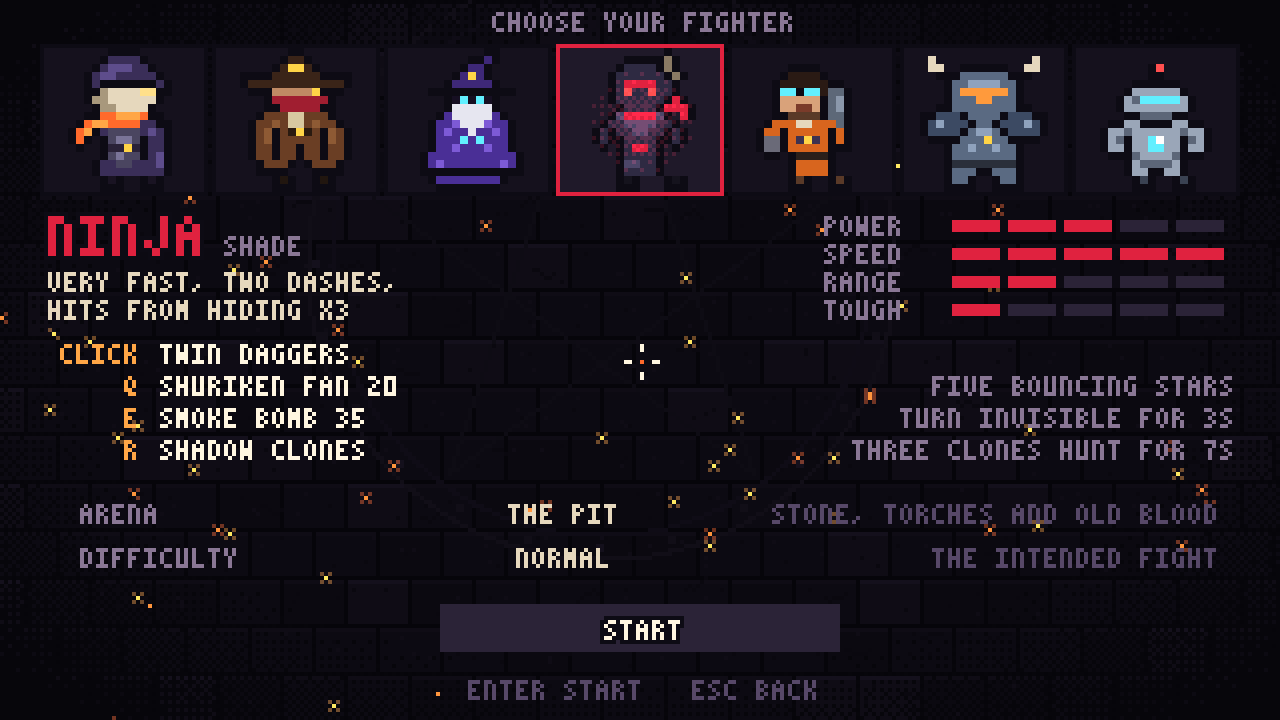
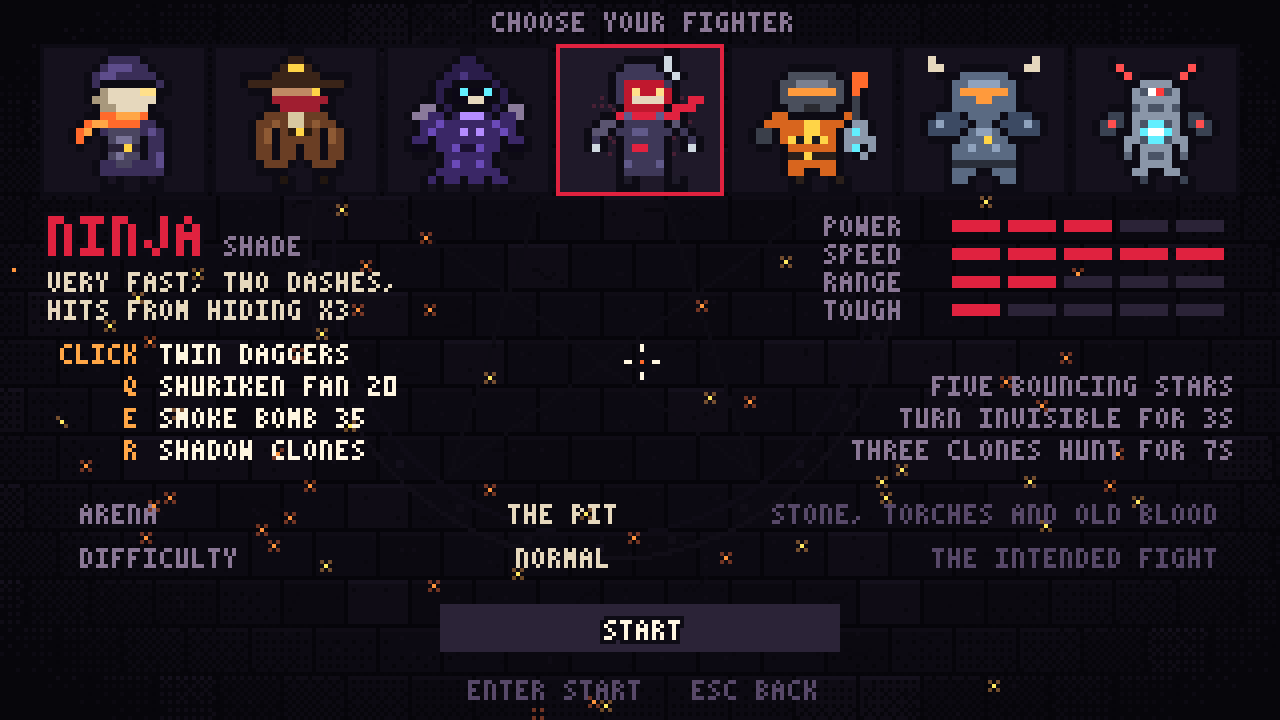
add vibration menu

diff --git a/src/sprites.js b/src/sprites.js
@@ -31,27 +31,27 @@ const BODIES = {
     map: () => ({ H: '#3a2418', h: P.gold, f: '#c08a64', e: P.gold, r: '#a01e30', D: '#6a3e24', d: '#8e5a34', w: '#d8c8a0', k: '#2a1a10', K: P.gold, b: '#21160f' }),
   },
   WIZARD: {
-    eye: [6, 6],
-    rows: ['.........oo...', '.......ooHo...', '......oHHo....', '.....oHsHo....', '....oHHHHHo...', '..ooooooooooo.',
-      '....oKeKeKo...', '....obbbbbo...', '...oRbbbbbRo..', '..oRRrbbbrRRo.', '..oRrRRbRRrRo.', '..oRRRgRgRRRo.',
-      '..oRRrRRRrRRo.', '.oRRRRRRRRRRRo', '.oRrRRRRRRRrRo', '.ooooooooooooo'],
-    map: () => ({ H: '#3e2878', s: '#ffd447', K: '#160f22', e: '#62efff', b: '#e6e6f0', R: '#4a2f96', r: '#7d5ad6', g: '#62efff' }),
+    eye: [7, 5], wide: true,
+    rows: ['.......oo.......', '......oHHo......', '.....oHHHHo.....', '....oHHhHHHo....', '...oHHoooooHo...', '...oHoKeKKeoHo..',
+      '..ooHoKKmmKoHoo.', '.oSSoHoooooHoSSo', 'oSSRRoHgggHoRRSo', '.oRRrRRRRRRrRRo.', '.oRrRRRgRgRRrRo.', 'oRRoRRRRRRRRoRRo',
+      'oKKoRRrkkrRRoKKo', '.oo.oRRRRRRo.oo.', '....oRrRRrRo....', '...oRRRRRRRRo...'],
+    map: () => ({ H: '#2a1d4a', h: '#4a3580', K: '#0c0816', e: '#62efff', m: '#e6d8bd', S: '#8a7a9a', R: '#3a2766', r: '#6a4ab8', g: '#b48cff', k: '#1a1030' }),
     legs: 'robe',
   },
   NINJA: {
-    eye: [8, 5],
-    rows: ['..........o...', '.....oooooKo..', '....oNNNNoKo..', '...oNNNNNNoKo.', '...oNrrrrNNo..', '...oNeNNeNNo..',
-      '...oNNNNNNoro.', '....oNNNNorrro', '...onrrrrno.ro', '..oNNnnnnNNo..', '.oNoNNnnNNoNo.', '.oNooNNNNooNo.',
-      '..o.oNrrNo.o..', '....oNNNNo....', '....onnNNo....', '....oNNNNo....'],
-    alt: { 7: '....oNNNNorr.o', 8: '...onrrrrnorr.' },
-    map: () => ({ N: '#3e3858', n: '#615a8a', r: '#e0223f', e: '#ff5050', K: '#8a7a64', b: '#1d1a28' }),
+    eye: [7, 5], wide: true,
+    rows: ['...........oo...', '......oooooKo...', '.....oNNNNoKo...', '....oNNNNNNoKo..', '....oNMMMMMNo...', '....oNMeMMeMo...',
+      '....oNMwwwwMo.rr', '.....oMMMMMorrr.', '...oornrrrnrro..', '..oPPoNNNNNoPo..', '.oPPoNNnnNNNoNo.', '.oNo.oNNNNNo.oNo',
+      '.oKo.oNrrNNo.oKo', '.....oNNNNNo....', '.....onNNNno....', '.....oNNNNNo....'],
+    alt: { 6: '....oNMwwwwMo..r', 7: '.....oMMMMMorr.r', 8: '...oornrrrnrrro.' },
+    map: () => ({ N: '#3e3858', n: '#615a8a', M: '#c0182e', e: '#ffe08a', w: '#e6d8bd', r: '#e0223f', P: '#5a5470', K: '#cfd8e0', b: '#1d1a28' }),
   },
   MECHANIC: {
-    eye: [4, 3],
-    rows: ['....oooo......', '...oKKKKo.....', '..oKKKKKKoo...', '..oGGoGGKPPo..', '..offfffoPpo..', '..offmmfoPpo..',
-      '..oobbbboPPo..', '.oOOOwwOOOPo..', 'oOOoOOOOOoOo..', 'oggoOtTtOoOo..', 'oggoOOOOOooo..', '.oo.okkkko....',
-      '....oOOOOo....', '....oOOOOo....'],
-    map: () => ({ K: '#2a1a14', G: '#62efff', P: '#5d6878', p: '#8b98ab', f: '#d9a27a', m: '#7a3b2a', b: '#5a3a28', O: '#d8651e', w: '#e6d8bd', g: '#6a6a78', t: '#3d3250', T: '#ffd447', k: '#2a1f1a' }),
+    eye: [6, 3], wide: true,
+    rows: ['.....oooooo.....', '....oWWWWWWo.xx.', '...oWWwwwwWWoxx.', '...oWGGGGGGWoxo.', '...oWWWWWWWWoPo.', '...ooWWddWWooPo.',
+      '..oOOoooooooOPo.', '.oOOOOOhhOOOoCCo', 'oggoOOOhhOOoCcCo', 'oggoOyKyKyOoCCCC', '.oo.oOOOOOOoCcoC', '....okkTkkko.oCo',
+      '....oOOOOOOo....', '....oOOooOOo....'],
+    map: () => ({ W: '#4a4f5c', w: '#7a8090', G: '#ff9a3c', x: '#ff6a2b', P: '#3a3f4a', d: '#2a2a30', O: '#d8651e', h: '#ffd447', g: '#3a3f4a', y: '#ffd447', K: '#1a1a20', C: '#8b98ab', c: '#62efff', k: '#2a1f1a', T: '#ffd447', b: '#2a1f1a' }),
   },
   TANK: {
     eye: [8, 4],
@@ -62,14 +62,15 @@ const BODIES = {
     legs: 'heavy',
   },
   ROBOT: {
-    eye: [7, 4],
-    rows: ['......oA......', '......oo......', '....oooooo....', '...oMMMMMMo...', '..oMmVVVVVMo..', '..oMMMMMMMMo..',
-      '...oommmmoo...', '.ooMMooooMMoo.', 'oMMmMMMMMMmMMo', 'oMmoMMcCMMomMo', 'oMMoMMccMMoMMo', '.ooomMMMMmooo.',
-      '...oMmmmmMo...', '...oMMooMMo...'],
-    map: () => ({ M: '#9aa6b8', m: '#5c6678', V: '#62efff', c: '#62efff', C: '#ffffff', A: '#ff4f4f', b: '#3a4252' }),
+    eye: [7, 4], wide: true,
+    rows: ['..o..........o..', '..oA........Ao..', '...oA.oooo.Ao...', '....ooMMMMoo....', '....oMmERmMo....', '....oMMMMMMo....',
+      '..ooomMmmMmooo..', '.oCCoMMMMMMoCCo.', 'oCcCoMmVVmMoCcCo', 'oCCooMVWWVMooCCo', '.oooMMmVVmMMooo.', '...oMoMMMMoMo...',
+      '...oFoMmmMoFo...', '....ooMMMMoo....', '....oMMooMMo....'],
+    map: () => ({ M: '#8a96a8', m: '#4a5466', A: '#ff4f4f', E: '#ffffff', R: '#ff3b3b', C: '#3a4252', c: '#ff4f4f', V: '#62efff', W: '#ffffff', F: '#5c6678', b: '#3a4252' }),
   },
 };
-const ROBE_LEGS = ['..oRRRRRRRRo..', '...oooooooo...'];
+const ROBE_LEGS = ['..oRoRRoRRoRRo..', '..o.o..o..o.o...'];
+const ROBE_LEGS_ALT = ['..oRRoRRoRRoRo..', '...o.o..o..o.o..'];
 const HEAVY = {
   idle: ['...oSSo..oSSo...', '...oooo..oooo...'], r0: ['..oSSo....oSSo..', '..oooo....oooo..'], r1: ['....oSSooSSo....', '....oooooooo....'],
   r2: ['...oSSo...oSSo..', '...oooo...oooo..'], r3: ['....oSSooSSo....', '.....oooooo.....'],
@@ -79,7 +80,8 @@ function buildChar(id) {
   const d = BODIES[id];
   const map = { o: P.ink0, ...d.map() };
   const body = (alt) => d.rows.map((r, i) => (alt && d.alt && d.alt[i]) || r);
-  const legs = (k) => (d.legs === 'robe' ? ROBE_LEGS : d.legs === 'heavy' ? HEAVY[k] : LEGS[k]);
+  const pad = (rows) => (d.wide ? rows.map((r) => '.' + r + '.') : rows);
+  const legs = (k) => (d.legs === 'robe' ? (k === 'r1' || k === 'r3' ? ROBE_LEGS_ALT : ROBE_LEGS) : d.legs === 'heavy' ? HEAVY[k] : pad(LEGS[k]));
   const sp = (alt, k) => makeSprite([...body(alt), ...legs(k)], map);
   const set = { idle: sp(false, 'idle'), run: [sp(false, 'r0'), sp(true, 'r1'), sp(false, 'r2'), sp(true, 'r3')] };
   set.eye = d.eye;

diff --git a/src/world.js b/src/world.js
@@ -47,11 +47,26 @@ export const DIFF = {
   NIGHTMARE: { hp: 1.7, spd: 1.22, count: 1.4, dmg: 1, php: -2, score: 2.2 },
 };
 
+// ---------- vibration (phones that support it; iPhone browsers don't) ----------
+const VIBE = { OFF: 0, LIGHT: 0.5, MEDIUM: 1, STRONG: 1.8 };
+// even entries buzz (scaled by the setting), odd entries are pauses
+const BUZZ = { tap: [12], hit: [16], kill: [26], heavy: [40], hurt: [90], parry: [18, 40, 28], boom: [60], ult: [40, 50, 140], boss: [140, 70, 260] };
+export const canVibrate = typeof navigator !== 'undefined' && typeof navigator.vibrate === 'function';
+let lastBuzz = 0;
+export function buzz(kind) {
+  const k = VIBE[settings.vibe];
+  if (!k || !canVibrate) return;
+  const now = performance.now();
+  if (kind !== 'hurt' && kind !== 'boss' && now - lastBuzz < 70) return;
+  lastBuzz = now;
+  try { navigator.vibrate(BUZZ[kind].map((v, i) => (i % 2 ? v : Math.max(5, Math.round(v * k))))); } catch { /* blocked */ }
+}
+
 // ---------- feel ----------
 export const fx = { trauma: 0, shakeT: 0, freeze: 0, slowT: 0, slowF: 1, flashT: 0, flashMax: 1, flashC: '#fff', flashStrong: false, flashLog: [], cam: { x: 0, y: 0 }, ox: 0, oy: 0, hurtVig: 0 };
 export function hitstop(d) { fx.freeze = Math.max(fx.freeze, d); }
 export function slowmo(d, f) { if (fx.slowT <= 0 || f < fx.slowF) fx.slowF = f; fx.slowT = Math.max(fx.slowT, d); }
-export function shake(a) { fx.trauma = Math.min(1, fx.trauma + a); }
+export function shake(a) { fx.trauma = Math.min(1, fx.trauma + a); if (a >= 0.6) buzz('boom'); }
 export function flash(c, d, strong) {
   if (strong) {
     const now = performance.now();
@@ -302,7 +317,7 @@ export function kill(e, o) {
   if (o.ug && G.p.ultLock <= 0 && !G.cine) G.p.ult = Math.min(100, G.p.ult + 3 * G.up.focus * G.kit.ultRate);
   hitstop(o.src === 'primary' ? 0.06 : 0.03);
   shake(e.type === 'brute' ? 0.55 : 0.3);
-  A.kill();
+  A.kill(); buzz('kill');
   if (e.type === 'tick') G.booms.push({ x: e.x, y: e.y, t: 0.09, friendly: true });
   if (e.frozen > 0 && G.up.frost) shatter(e);
   if (G.up.debt && ++G.debtKills >= 20) { G.debtKills = 0; healPlayer(1); }
@@ -359,7 +374,7 @@ export function tryHurt(dmg, sx, sy) {
   p.vx = Math.cos(a) * 220; p.vy = Math.sin(a) * 220;
   if (p.state === 'attack' || p.state === 'recover') p.state = 'move';
   hitstop(0.12); shake(0.65); flash(P.blood, 0.22, false); A.hurt();
-  if (input.touch) try { navigator.vibrate?.(70); } catch { /* not supported */ }
+  buzz('hurt');
   fx.hurtVig = 1;
   bleed(p.x, p.y, a, 14, P.blood, P.bloodD, 1);
   if (G.combo >= 5) addText(p.x, p.y - 24, 'COMBO LOST', P.dust);
@@ -377,7 +392,7 @@ function perfectDodge() {
   p.inv = Math.max(p.inv, 0.45);
   addText(p.x, p.y - 24, 'PERFECT', P.volt, 1);
   addRing(p.x, p.y - 6, P.volt, 220, 0.35, 2);
-  A.perfect();
+  A.perfect(); buzz('parry');
   addCombo(1);
 }
 
@@ -538,7 +553,7 @@ function updatePlayer(dt) {
     const canAct = free || (p.state === 'attack' && p.atkT >= p.cancelAt);
     const canDash = p.state !== 'dash' && p.state !== 'skill';
     if (p.bufDash > 0 && p.charges > 0 && canDash) startDash(mx, my, ml);
-    else if (p.bufR > 0 && canAct && p.ult >= 100) { p.bufR = 0; p.ult = 0; p.ultLock = 2.5; kit.r.use(p); }
+    else if (p.bufR > 0 && canAct && p.ult >= 100) { p.bufR = 0; p.ult = 0; p.ultLock = 2.5; kit.r.use(p); buzz('ult'); }
     else if (p.bufQ > 0 && canAct && p.energy >= kit.q.cost && p.cdQ <= 0) { p.bufQ = 0; if (kit.q.use(p) !== false) { p.energy -= kit.q.cost; p.cdQ = kit.q.cd; } }
     else if (p.bufE > 0 && canAct && p.energy >= kit.e.cost && p.cdE <= 0) { p.bufE = 0; if (kit.e.use(p) !== false) { p.energy -= kit.e.cost; p.cdE = kit.e.cd; } }
     else if (kit.melee) { if (p.bufAtk > 0 && canAct) startAttack(); }
@@ -621,6 +636,7 @@ function meleeHit(e, sw, dir) {
   if (!killed) hitstop(e.type === 'boss' ? 0.035 : sw.heavy || crit ? 0.085 : 0.05);
   shake(sw.heavy ? 0.3 : 0.17);
   A.hit(sw.heavy, crit);
+  buzz(sw.heavy || crit ? 'heavy' : 'hit');
   sparks(e.x, e.y - e.r, dir + (Math.PI / 2) * sw.dir, 7, 0.5, P.ember2, 220);
   kit.onHit?.(e, sw, dir);
 }
@@ -636,7 +652,7 @@ export function parry(s, a0) {
   s.owner = 'player'; s.vx = Math.cos(a) * 300; s.vy = Math.sin(a) * 300;
   s.dmg = pd(10 * (1 + up.mirror)); s.pierce = up.mirror ? 99 : 0; s.life = 2; s.hit = new Set(); s.c = P.volt;
   s.kind = 'orb'; s.ug = true; s.kb = 200; s.bounce = 0; s.homing = 0; s.slice = true; s.trail = true; s.accel = 0;
-  hitstop(0.09); shake(0.25); A.parry();
+  hitstop(0.09); shake(0.25); A.parry(); buzz('parry');
   addText(s.x, s.y - 10, 'PARRY', P.volt);
   addRing(s.x, s.y, P.paper, 200, 0.2, 2);
   sparks(s.x, s.y, a, 10, 0.6, P.volt, 260);
@@ -795,7 +811,7 @@ function bossFinal(e) {
   for (let i = 0; i < 3; i++) dropPick(e.x, e.y, 'heal');
   G.score += Math.round(e.def.score * (G.wave / 5) * RANKS[G.rank].m * G.D.score);
   flash(P.paper, 0.4, true); shake(1); hitstop(0.15);
-  A.ultRelease();
+  A.ultRelease(); buzz('boss');
   if (bd.final && !G.won) { G.won = true; G.victory = true; A.victory(); }
 }
 

diff --git a/src/ui.js b/src/ui.js
@@ -3,7 +3,7 @@ import { SPR, icon } from './sprites.js';
 import { input, keyHit, TOUCH_BTNS } from './input.js';
 import { A } from './audio.js';
 import { settings, best, OPTIONS } from './store.js';
-import { G, fx, RANKS, floor, decal, AW, AH, isBossWave } from './world.js';
+import { G, fx, RANKS, floor, decal, AW, AH, isBossWave, buzz, canVibrate } from './world.js';
 import { CHARS } from './chars.js';
 import { BOSSES } from './bosses.js';
 import { MAPS } from './maps.js';
@@ -255,9 +255,9 @@ export function drawSelect(t) {
     const x = PX0 + i * (PW + PG), on = i === sel.i, ch = CHARS[id];
     rect(x - 1, PY - 1, PW + 2, 38, on ? ch.color() : P.ink0);
     rect(x, PY, PW, 36, on ? P.ink2 : P.ink1);
+    if (on) glow(x + PW / 2, PY + 18, ch.color(), 16, 0.18);
     const s = on ? SPR.chars[id].run[Math.floor(t * 9) % 4] : SPR.chars[id].idle;
     ctx.save(); ctx.translate(x + PW / 2 - s.w, PY + 36 - s.h * 2 - (on ? Math.floor(t * 9) % 2 : 0)); ctx.scale(2, 2); drawSprite(s, 0, 0, false); ctx.restore();
-    if (on) glow(x + PW / 2, PY + 18, ch.color(), 16, 0.18);
     const rec = best.chars[id];
     if (rec && rec.won) px(x + PW - 4, PY + 3, P.gold);
   });
@@ -316,6 +316,7 @@ export function settingsItems(ctxInfo) {
   return [
     { label: 'ARENA', value: () => MAPS[settings.map].name, adjust: stepList('map') },
     { label: 'DIFFICULTY', value: () => settings.diff, adjust: stepList('diff') },
+    { label: 'VIBRATION', value: () => (canVibrate ? settings.vibe : settings.vibe + ' (NOT ON THIS DEVICE)'), adjust: (d) => { stepList('vibe')(d); buzz('heavy'); } },
     { label: 'RESET ALL SETTINGS', act: () => 'reset' },
     { label: 'ERASE SAVED RUN', act: () => 'erase', dimmed: !ctxInfo.hasSave },
     { label: 'BACK', act: () => 'back' },

diff --git a/src/main.js b/src/main.js
@@ -4,7 +4,7 @@ import { A } from './audio.js';
 import { settings, best, loadAll, saveBest, saveSettings, resetSettings, saveRun, loadRun, clearRun } from './store.js';
 import { buildSprites } from './sprites.js';
 import { byId } from './upgrades.js';
-import { G, fx, newRun, startWave, update, controls, drawWorld, showMap, snapshot } from './world.js';
+import { G, fx, newRun, startWave, update, controls, drawWorld, showMap, snapshot, buzz } from './world.js';
 import {
   drawHUD, drawTitle, titleItems, titleMenu, runMenu, drawUpgrade, updateUpgrade, openUpgrade, upg,
   pauseItems, pauseMenu, drawPause, drawOver, drawVictory, vignette, screenFlash, cursor, refreshArt,
@@ -71,7 +71,7 @@ function tick(now) {
     if (input.any || input.mouse.pressed) { A.init(settings); A.scene('title'); go('intro'); }
     drawSplash(sceneT, input.touch);
   } else if (scene === 'intro') {
-    for (const [ct, cue] of INTRO_CUES) if (sceneT >= ct && sceneT - rdt < ct) A[cue]();
+    for (const [ct, cue] of INTRO_CUES) if (sceneT >= ct && sceneT - rdt < ct) { A[cue](); if (cue === 'riftCut' || cue === 'ultRelease') buzz('heavy'); else if (cue === 'wall') buzz('tap'); }
     if (sceneT > 0.3 && (input.any || input.mouse.pressed)) go('title');
     else if (sceneT >= INTRO_LEN) go('title');
     else drawIntro(sceneT);

diff --git a/src/chars.js b/src/chars.js
@@ -805,6 +805,8 @@ const FLAIR = {
     if (moving && p.k.shadowT <= 0) { p.k.shadowT = 0.08; ghost(p, '#2a1f4a'); }
   },
   MECHANIC(p, dt) {
+    const bx = p.x - (Math.cos(p.aim) < 0 ? -5 : 5);
+    if (Math.random() < dt * 14) part(bx + rnd(-1, 1), p.y - 19, rnd(-6, 6), -rnd(20, 45), rnd(0.2, 0.4), Math.random() < 0.5 ? P.ember : P.ember2, { drag: 2, glow: true });
     if (Math.random() < dt * 2.5) { const x = p.x + (Math.cos(p.aim) < 0 ? -6 : 6); for (let i = 0; i < 4; i++) part(x, p.y - 6, rnd(-60, 60), -rnd(20, 80), rnd(0.2, 0.4), Math.random() < 0.5 ? P.gold : P.paper, { z: 2, vz: rnd(20, 60), g: 260, drag: 2, glow: true }); }
   },
   TANK(p, dt, moving) {
@@ -827,5 +829,5 @@ const AURA = {
   BLADE(p) { glow(p.x, p.y - 8, P.ember, 12, 0.12); },
   TANK(p) { glow(p.x, p.y - 12, '#ff9a3c', 6, 0.25); },
 };
-const EYES = { WIZARD: '#62efff', NINJA: '#ff5050', MECHANIC: '#62efff', TANK: '#ff9a3c', ROBOT: P.volt, GUNNER: '#ffd447', BLADE: '#ffb04a' };
+const EYES = { WIZARD: '#62efff', NINJA: '#ffe08a', MECHANIC: '#ff9a3c', TANK: '#ff9a3c', ROBOT: '#ff3b3b', GUNNER: '#ffd447', BLADE: '#ffb04a' };
 for (const id in CHARS) { CHARS[id].flair = FLAIR[id]; CHARS[id].drawAura = AURA[id]; CHARS[id].eyeColor = EYES[id]; }

diff --git a/src/store.js b/src/store.js
@@ -11,13 +11,14 @@ export const OPTIONS = {
   map: ['PIT', 'FROST', 'FORGE', 'GRID', 'SHRINE'],
   diff: ['EASY', 'NORMAL', 'HARD', 'NIGHTMARE'],
   char: ['BLADE', 'GUNNER', 'WIZARD', 'NINJA', 'MECHANIC', 'TANK', 'ROBOT'],
+  vibe: ['OFF', 'LIGHT', 'MEDIUM', 'STRONG'],
 };
 
 const DEFAULTS = {
   master: 1, music: 0.6, sfx: 0.9, track: 'AUTO', combat: 'PIT DIRGE',
   theme: 'EMBER', vibrancy: 1, bright: 1, contrast: 1, hue: 0, crt: false,
   shake: 1, flash: true, numbers: true, particles: 'HIGH',
-  map: 'PIT', diff: 'NORMAL', char: 'BLADE',
+  map: 'PIT', diff: 'NORMAL', char: 'BLADE', vibe: 'MEDIUM',
 };
 const RANGES = { master: [0, 1], music: [0, 1], sfx: [0, 1], vibrancy: [0, 2], bright: [0.6, 1.4], contrast: [0.6, 1.6], hue: [0, 345], shake: [0, 1] };
 

diff --git a/index.html b/index.html
@@ -19,6 +19,6 @@
     <div id="rotate" aria-live="polite"><div class="phone"></div><p>Turn your phone sideways to play</p></div>
     <noscript><p class="note">Ashblade needs JavaScript to run.</p></noscript>
   </main>
-  <script type="module" src="src/main.js?v=6"></script>
+  <script type="module" src="src/main.js?v=9"></script>
 </body>
 </html>

diff --git a/README.md b/README.md
@@ -58,7 +58,7 @@ On a phone, the game asks you to turn the phone sideways. It pauses whenever you
 
 - Audio: master, music and effects volume. The soundtrack setting either follows the fight or plays one track of your choice. You can also pick which of the three battle tracks plays during normal waves.
 - Video: color theme, vibrancy, brightness, contrast, hue shift and scanlines. You can also turn down screen shake, flashes, damage numbers and particles.
-- Game: arena and difficulty. There are 5 arenas. On the ice everything slides, and in the forge, enemies knocked into lava catch fire.
+- Game: arena, difficulty and vibration. Vibration has four levels (off, light, medium, strong) and works on phones whose browser supports it, which includes Android but not iPhone. There are 5 arenas. On the ice everything slides, and in the forge, enemies knocked into lava catch fire.
 
 ## Saving
 
